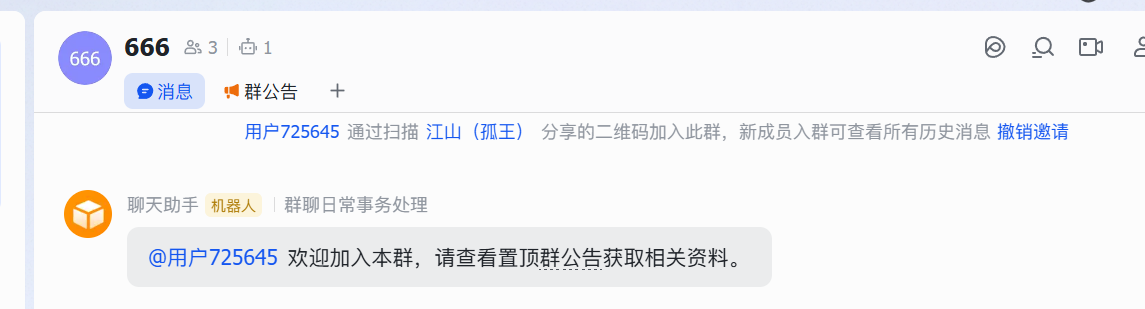
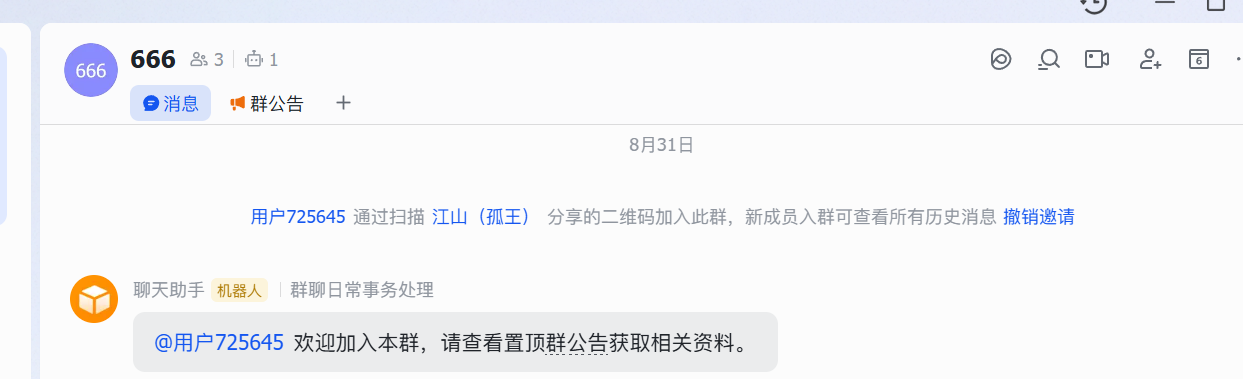
docs: update effect images

diff --git a/效果图展示.md b/效果图展示.md
@@ -1,0 +1,13 @@
+# 效果图展示
+
+## Excel 文件生成与回传
+
+![Excel 文件生成与回传](![alt text](image-2.png))
+
+## 新成员入群自动欢迎
+
+![新成员入群自动欢迎](![alt text](image.png))
+
+## AI 新闻搜索与摘要
+
+![AI 新闻搜索与摘要](![alt text](image-1.png))
